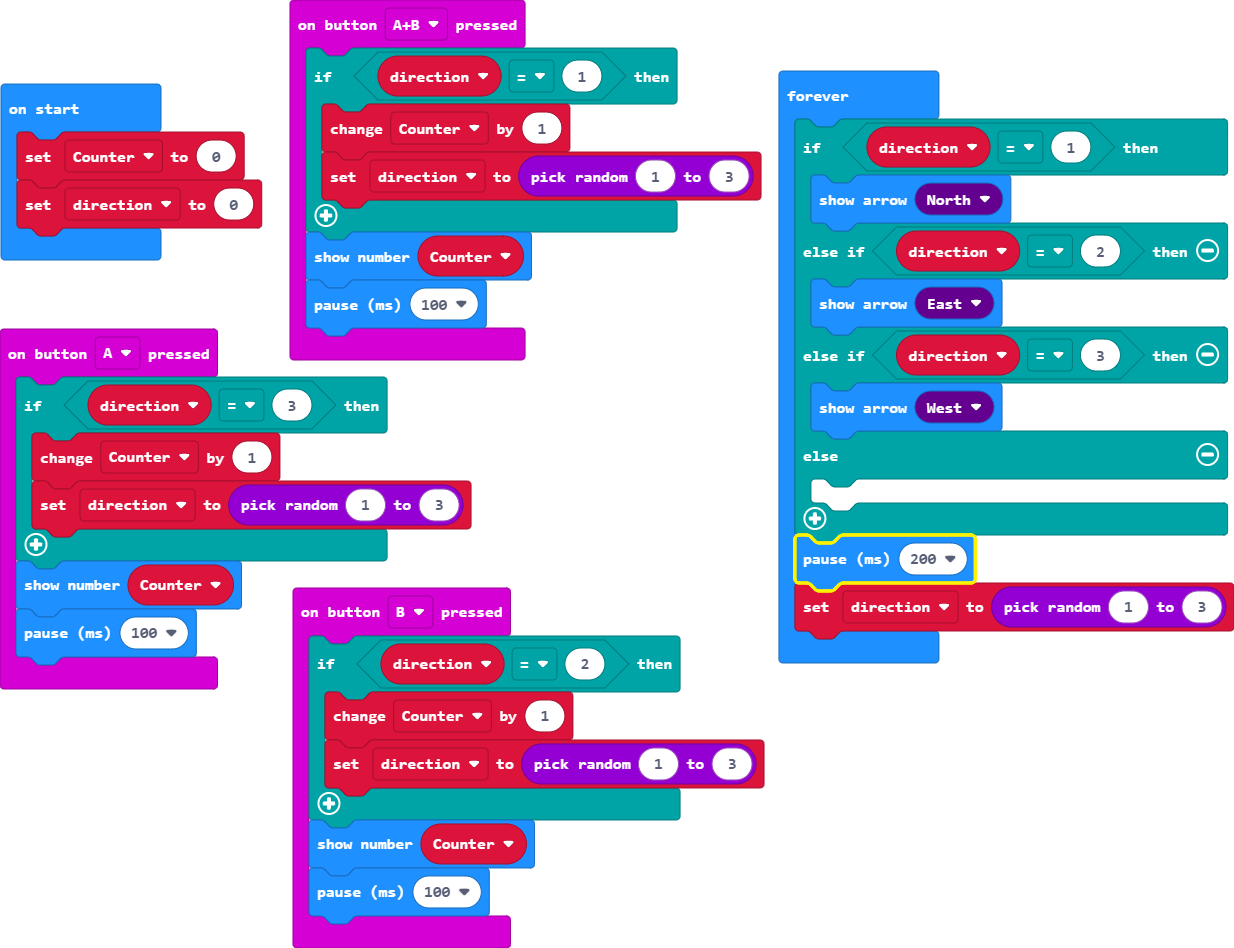
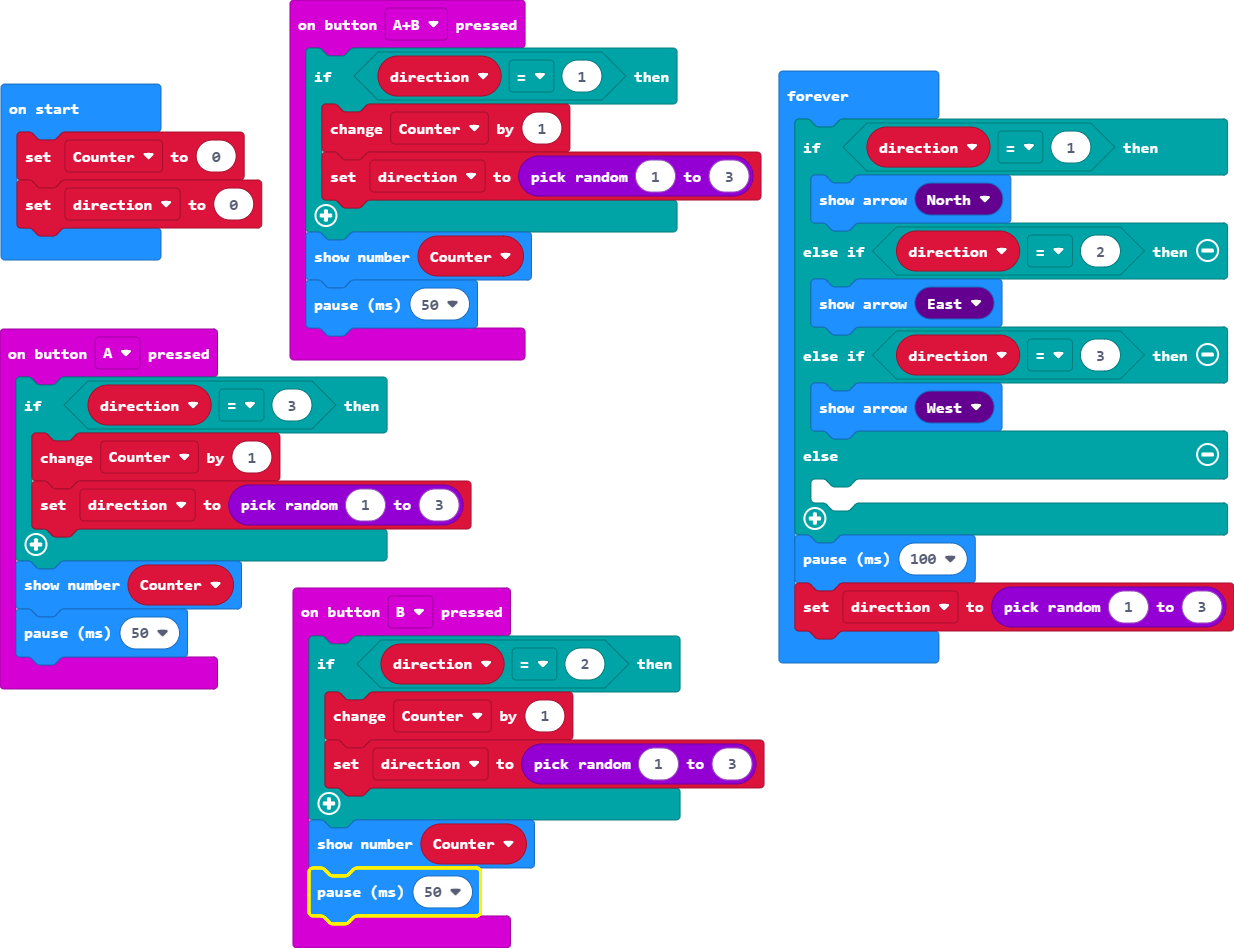
Update main.blocks, main.ts

diff --git a/main.ts b/main.ts
@@ -4,7 +4,7 @@ input.onButtonPressed(Button.A, function () {
         direction = randint(1, 3)
     }
     basic.showNumber(Counter)
-    basic.pause(100)
+    basic.pause(50)
 })
 input.onButtonPressed(Button.AB, function () {
     if (direction == 1) {
@@ -12,7 +12,7 @@ input.onButtonPressed(Button.AB, function () {
         direction = randint(1, 3)
     }
     basic.showNumber(Counter)
-    basic.pause(100)
+    basic.pause(50)
 })
 input.onButtonPressed(Button.B, function () {
     if (direction == 2) {
@@ -20,7 +20,7 @@ input.onButtonPressed(Button.B, function () {
         direction = randint(1, 3)
     }
     basic.showNumber(Counter)
-    basic.pause(100)
+    basic.pause(50)
 })
 let direction = 0
 let Counter = 0
@@ -36,6 +36,6 @@ basic.forever(function () {
     } else {
     	
     }
-    basic.pause(200)
+    basic.pause(100)
     direction = randint(1, 3)
 })
